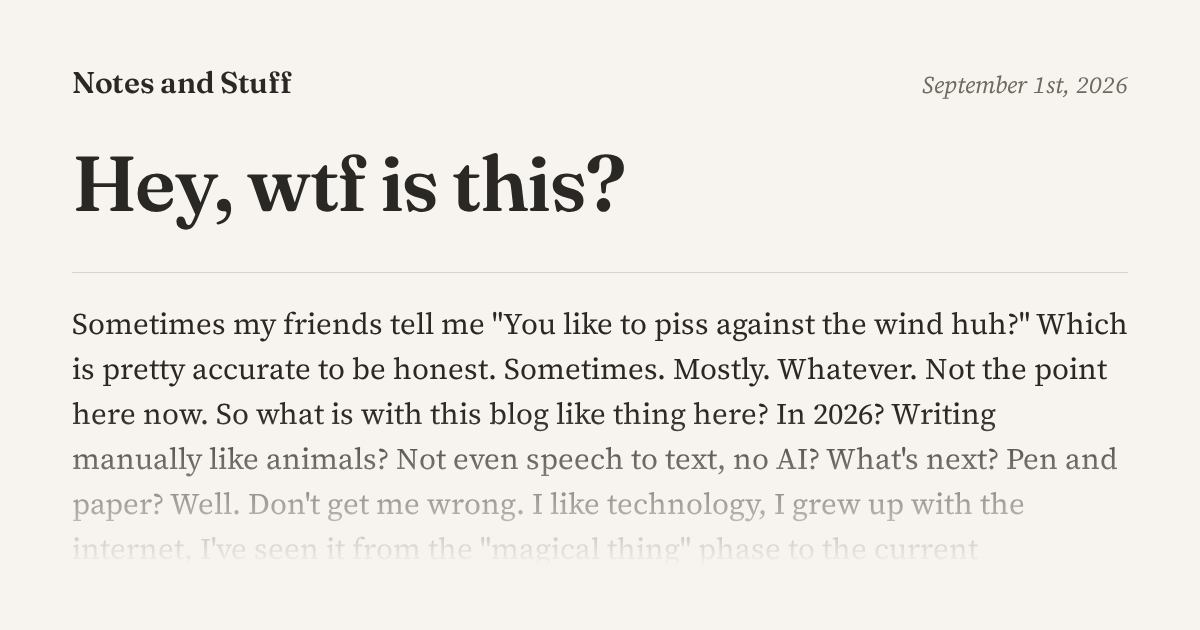
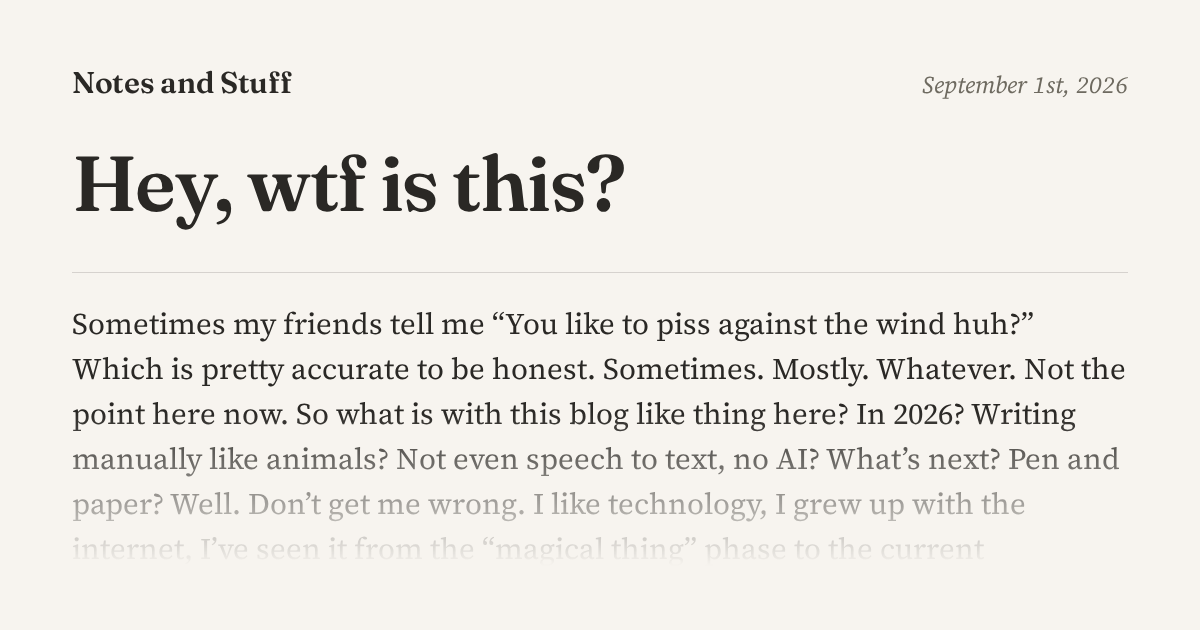
Posts: Give it time + Scientia Potentia Est; cards use typographic quotes
- both posts spellchecked (typos and clear grammar only)
- tools/gen-og.mjs smartens quotes so cards match the page's kramdown
  output; all cards regenerated

diff --git a/_posts/2026-09-23-give-it-time.md b/_posts/2026-09-23-give-it-time.md
@@ -1,0 +1,51 @@
+---
+title: Give it time
+date: 2026-09-23 15:00:00 +0700
+---
+
+With AI today anyone can build an app in a day, write an essay in a matter of minutes, make an illustration or painting within seconds. The time constraint almost fully evaporated.
+
+But we are completely missing the point where our brain can really lay back into retrospective mode, can take a step away and think, reflect on the things going on. Pause a bit and take a breath. 
+
+With all creation getting super fast, people are getting intoxicated and just pushing output. But most forget to take a break. It was an important part of the _"oldschool"_ way of doing things and should be still important now. 
+
+**The point is to be aware of what you are doing. Trust the process. Enjoy the ride. Be yourself.**
+
+It doesn't matter how you do it. Hustlers and copycats always existed and always leeched on real, knowledgeable professionals and artists. This did not change with AI. Just the entry ticket got cheaper and it's easier to get a taste from the _"booze"_. But from that point it's up to you what to do with the newly available power. 
+
+Use it wisely, take your time.
+
+Make decisions. Change your mind. Do a complete 180° turn or just scrap the whole thing because it doesn't spark joy anymore. 
+
+With AI we just pile up _"done"_ tasks and we don't care if it was actually what we wanted, or anyone wanted as a matter of fact.
+
+We just ship, scale, deliver. And it became so _"cheap"_ especially in time it doesn't carry the same weight as before. It becomes weightless and valueless.
+
+And yes, it happened few times in our lifetime already; exactly how digital devices replaced analog ones, losing meaning and value from the process. We don't think before a photo, we don't frame, we don't judge, we just shoot 200 images because it's _"free"_ and we are not limited anymore by the 24-32 frames on a roll of film. 30 years ago people spent more time on composition - and maybe never pushed the button - than we spend today on end-to-end photography. 
+
+### So what's my point? 
+
+Keep creating. Just give it time. 
+
+Let it rest. Let it mature. 
+
+Let it fail. Let it be reborn.
+
+Both your mind and your product.  
+
+---
+### Sidenote: 
+
+I might not be the most popular with my opinion, but I'm personally somewhere between the two parties on this topic.
+
+Yes, yes. Incoming slop tsunami! AI is stealing. And all the battle cry we already know from the internet. But hear me out. 
+
+Not gonna lie; I find it somewhat disgusting how some companies are making humongous profit from open knowledge, technically selling you the very same thing that someone else contributed to the world, often free of charge. It's hard to argue. Period.
+
+You can make slop fair and square, you can push out honest people from the craft and live with this. It's on you and your conscience.
+
+But equally hard to deny the fact how AI assisted tooling can make people more efficient and less dependent on what they are doing. How it can help services become more accessible, how it can help millions of people.
+
+It's really a two edged blade.
+
+It's up to you. Always been.  

diff --git a/_posts/2026-09-21-scientia-potentia-est.md b/_posts/2026-09-21-scientia-potentia-est.md
@@ -1,0 +1,53 @@
+---
+title: Scientia Potentia Est
+date: 2026-09-21 12:00:00 +0700
+---
+
+"Knowledge is power" is commonly attributed to Sir Francis Bacon.
+
+I think we all heard this a few times in our lives. We all know what it means. But we don't really apply it to everything, at least not by default. Or it's just me. Anyways.
+
+Of course espionage, government secret agencies, Jason Bourne and such come to mind first. 
+
+But what about when tech companies acquire each other? Hmmm. Yup.
+
+Sure, a few times there is a genius idea -- maybe even a patent was filed to protect it -- but that's not really holding back big players from just copying it and then push the envelope to have a settlement outside of court. 
+
+With AI the indie SaaS market also went nuts. Now everyone has the power to _"do their own version"_. Everybody shipping, everybody building and immediately slapping a fat subscription model on it to milk the customers. 
+
+But they are missing the point: with AI just as it was super easy to build your product, the neighbors, the mailman and your own cousins can do it. Just as easy if not easier. So by the time you read the first comment on Product Hunt you already have 10 competitors, technically killing each other. 
+
+So what is the point then? 
+
+Ego? Perhaps. Unfulfilled dreams? Can be.
+
+But I have a better candidate.
+
+It's the data. The knowledge. The intel. Always been the data. 
+
+Data is time, time is money so my assumption is that data is money, and big data is big money. 
+
+Buying up an already decently filled and very specific data pool is much easier than building the tool, spending on marketing, scaling, potentially failing. You know, the whole circus. 
+
+Especially with the pattern when the acquired company is just simply shut down after the deal. We've seen this many times. 
+
+Same thing for investment. Sharks of course look at the return, but they don't calculate it from how amazing your model is. But how much can it be worth, what it knows about people. Simple as that.
+
+No wonder money is pouring into companies with AI boosted engines under the hood. The perfect harvesting machine.
+
+> _"but hey, talk about how ethical it is to harvest data from your "innocent" users!"_
+
+Honestly? These days I find it a rather pointless topic to argue. 
+
+We got gigantic data giants where we voluntarily give away everything, we got fake job ads just collecting your CV and personal data. I won't continue the list. You know. 
+
+So you can just follow the industry standard and sell it to advertisers then take a seat in the _"Big Tech Hall of Fame"_. 
+
+Or a more ethical route can be taken with handpicking what data you actually collect and how, but most importantly what to do with it. 
+
+Like for instance use it to shine some light on underrepresented research areas. Or just write a book. Or a study. Or just make your product better.
+
+It's up to you. Just saying.
+
+P.s.: Ohh, and don't forget to [self-host your analytics](https://github.com/umami-software/umami) and shit. 
+

diff --git a/docs/CHANGELOG.md b/docs/CHANGELOG.md
@@ -202,3 +202,13 @@ Dated entries, tagged Feature/Fix/Break.
   title is now `line-height: 1.24` and clips at 3 lines (290px), so the ink
   always fits its line box. Measured title ink height 71px -> 76px
   (unclipped reference 77px).
+
+## 2026-09-23
+
+- [Fix] Share cards render typographic quotes like the page: kramdown
+  smartens quotes in the HTML, but the cards build from stripped markdown,
+  so they showed straight ones. `tools/gen-og.mjs` now has a `smarten()`
+  step (apostrophes, opening/closing single and double quotes) applied to
+  post cards and the homepage card; all cards were regenerated.
+- [Feature] Posts: "Give it time" and "Scientia Potentia Est", both
+  spellchecked (typos and clear grammar only).
